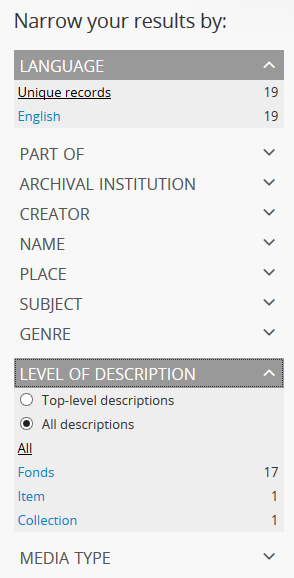
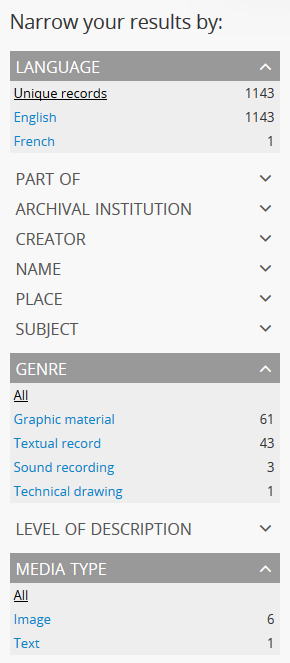
update facets info for 2.3

diff --git a/user-manual/access-content/navigate.rst b/user-manual/access-content/navigate.rst
@@ -873,6 +873,15 @@ count of the records included in each facet appears next to the facet label,
 giving users a sense of how many search/browse results fall under each facet
 result.
 
+.. NOTE::
+
+   Facet filters are configured not to display if there are only 0 or 1
+   facets. So for example, if you perform a search, and none of the results
+   have :term:`digital objects <digital object>` attached, then the "Media
+   types" facet filter will not display. Only those facets relevant to the
+   results being displayed will appear in the user interface.
+
+
 Facet filters in AtoM are configured so that each facet displays its results
 with the highest number of matches at the top. Currently, AtoM will only
 display a maximum of the top ten matched results in each facet. Facets are
@@ -907,10 +916,6 @@ as a place filter, the "Levels of description" facet results will now display
 results that apply only to the records being displayed (records with an
 "Ontario" place :term:`access point`), until the previous facet filter is
 removed.
-
-If "All" is the only option available beneath a facet heading, it means that
-there are no relevant filters in the facet that apply to the current records
-being displayed in the search/browse results page.
 
 .. _facets-by-record-type:
 
@@ -1047,22 +1052,20 @@ For more information on uploading and managing digital objects, see:
    depends on the level of detail included in the related records. For
    example, if no :term:`place` :term:`access points <access point>` have been
    added to the :term:`archival descriptions <archival description>` in your
-   installation, there will be not matched filter options under the "Places"
-   facet filter. The richer your descriptive data, the more useful the facet
-   filters will be.
+   installation, then no Places facet filter will be shown. The richer your
+   descriptive data, the more useful the facet filters will be.
 
 .. _using-facet-filters:
 
 Using facet filters in AtoM:
 ^^^^^^^^^^^^^^^^^^^^^^^^^^^^
 
-* Navigate to a :ref:`browse <browse>` or :doc:`search
-  <../access-content/search-atom>` page
+* Navigate to a :ref:`browse <browse>` or :ref:`search-atom` page
 * Available :term:`facet filters <facet filter>` will appear on the left-hand
   side of the page (unless you are on the Digital objects browse page - the
   filter buttons there are in the upper right-hand corner of the page). If
   there are no facet filters present, they are not available for that
-  :term`entity` (e.g. Place, Subject, Function browse pages, etc.)
+  :term:`entity` (e.g. Place, Subject, Function browse pages, etc.)
 * Click on the heading of a facet to expand or collapse its available options
 * The filter currently selected in a facet will appear in black underlined
   text. Available filters appear as blue :ref:`text links
@@ -1071,7 +1074,11 @@ Using facet filters in AtoM:
   browse page (unless a specific query has brought them there that engages a
   filter).
 * Click on a blue :ref:`text link <recurring-text-links>` to apply a filter
-* Click on "All" under a facet to remove an applied filter
+* Click on "All" under a facet to remove an applied filter. Alternately, you
+  can click on the related :term:`filter tag` that will appear above the
+  search or browse results. For more information on filter tags, see:
+  :ref:`search-atom`; see particularly :ref:`search-box-delimiters` for a
+  screenshot and example application of the filter tags.
 * When a filter is applied, all other facet filters are updated to provide
   filters that relate only to the results currently being displayed. For
   example, if you filter by :term:`Level of description` to display only
@@ -1089,15 +1096,13 @@ Using facet filters in AtoM:
   the returned results by common subject access point ("Industry" and "Union")
   would remain.
 * If no data exists in the related description fields for the records
-  available under a facet, no filters (except the default "All") will appear
-  under the facet heading.
-
+  available under a facet, or there is only one result, then no facet filter
+  for that data will appear.
 
 .. seealso::
 
    * :ref:`Browse <browse>`
    * :ref:`Search <search-atom>`
-
 
 .. _recurring-button-block:
 
